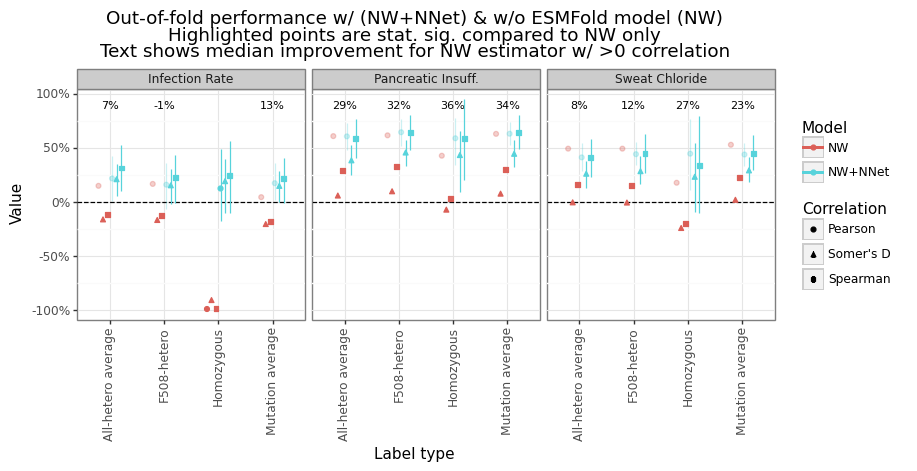
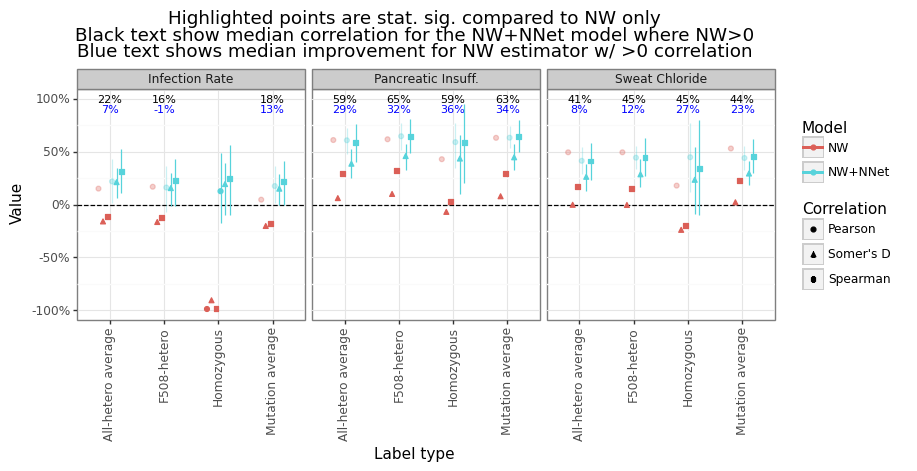
adding extra text to oof_diff

diff --git a/8_predict_y.py b/8_predict_y.py
@@ -20,6 +20,7 @@ from utilities.utils import merge_pairwise_dfs
 from parameters import dir_data, dir_figures, seed, n_folds
 
 # Clean up for performance
+di_mdl = {'nw':'NW', 'stacked':'NW+NNet'}
 di_perf_msr = {'pearson':'Pearson', 'somersd':"Somer's D", 'rho':'Spearman'} # , 'tau':'Kendall', 'r2':'R-squared'
 
 
@@ -189,30 +190,31 @@ res_bl_comp.drop(columns='check', inplace=True)
 res_bl_comp = res_bl_comp.melt(cn_index+['value','lb','ub','is_sig'],res_bl.columns.to_list(),'mdl','perf')
 res_bl_comp = res_bl_comp.assign(lb=lambda x: np.where(x['mdl']=='nw', np.nan, x['lb']))
 res_bl_comp = res_bl_comp.assign(ub=lambda x: np.where(x['mdl']=='nw', np.nan, x['ub']))
-res_bl_comp['mdl'] = res_bl_comp['mdl'].map({'nw':'NW', 'stacked':'NW+NNet'})
+res_bl_comp['mdl'] = res_bl_comp['mdl'].map(di_mdl)
 res_bl_comp['msr'] = cat_from_map(res_bl_comp['msr'], di_perf_msr)
 res_bl_comp = res_bl_comp[res_bl_comp['msr'].notnull()]
 # How much of an improvement is there for NW estimators > 0 correlation
-res_txt = res_diff.merge(res_bl.query('nw>0').set_index('nw',append=True).index.to_frame(False))
+res_txt = res_diff.merge(res_bl.query('nw>0').set_index(['nw','stacked'],append=True).index.to_frame(False))
 res_txt['msr'] = cat_from_map(res_txt['msr'], di_perf_msr)
 res_txt = res_txt[res_txt['msr'].notnull()]
-res_txt = res_txt.groupby(['category','lbl'])['value'].agg({'mean','median'}).reset_index().assign(y=0.9)
-print(res_txt.round(2))
+res_txt = res_txt.groupby(['category','lbl'])[['value','stacked']].agg('median').reset_index().assign(y=0.9)
 
 # Plot the Nadarya-Watson estimator vs mdl
 posd = pn.position_dodge(0.5)
+gtit = 'Highlighted points are stat. sig. compared to NW only\nBlack text show median correlation for the NW+NNet model where NW>0\nBlue text shows median improvement for NW estimator w/ >0 correlation'
 gg_oof_diff = (pn.ggplot(res_bl_comp, pn.aes(x='lbl',y='perf',color='mdl',shape='msr',alpha='is_sig')) + 
     pn.theme_bw() + 
     pn.labs(y='Value',x='Label type') + 
     pn.geom_hline(yintercept=0,linetype='--') + 
     pn.facet_wrap('~category') + 
-    pn.ggtitle('Out-of-fold performance w/ (NW+NNet) & w/o ESMFold model (NW)\nHighlighted points are stat. sig. compared to NW only\nText shows median improvement for NW estimator w/ >0 correlation') + 
+    pn.ggtitle(gtit) + 
     pn.scale_color_discrete(name='Model') + 
     pn.scale_shape_discrete(name='Correlation') + 
     pn.scale_alpha_manual(name='Significant',values=[0.3,1]) + 
     pn.guides(alpha=False) + 
     pn.geom_point(position=posd) + 
-    pn.geom_text(pn.aes(y='y',label='100*median',x='lbl'),size=8,format_string='{:.0f}%',inherit_aes=False,data=res_txt) + 
+    pn.geom_text(pn.aes(y='y',label='100*value',x='lbl'),size=8,format_string='{:.0f}%',inherit_aes=False,data=res_txt,color='blue') + 
+    pn.geom_text(pn.aes(y='y+0.1',label='100*stacked',x='lbl'),size=8,format_string='{:.0f}%',inherit_aes=False,data=res_txt) + 
     pn.geom_linerange(pn.aes(ymin='lb',ymax='ub'),position=posd) + 
     pn.theme(axis_text_x=pn.element_text(angle=90)) + 
     pn.scale_y_continuous(labels=percent_format()))
@@ -226,7 +228,7 @@ gg_smooth.DEFAULT_AES['linetype'] = 'dashed'
 gg_oof_diff_scatter = (pn.ggplot(df_contrib, pn.aes(x='yhat',y='y',color='mdl')) + 
     pn.theme_bw() + pn.geom_point(size=0.5) + 
     pn.labs(x='Predicted (out-of-fold)',y='Actual') + 
-    pn.scale_color_discrete(name='Model') + 
+    pn.scale_color_discrete(name='Model', labels=lambda x: [di_mdl[z] for z in x]) + 
     gg_smooth + 
     pn.facet_grid('category~lbl',scales='fixed') + 
     pn.ggtitle('Predicted vs actual phenotype for NW vs NW+NNet\nDashed line shows OLS fit') + 
